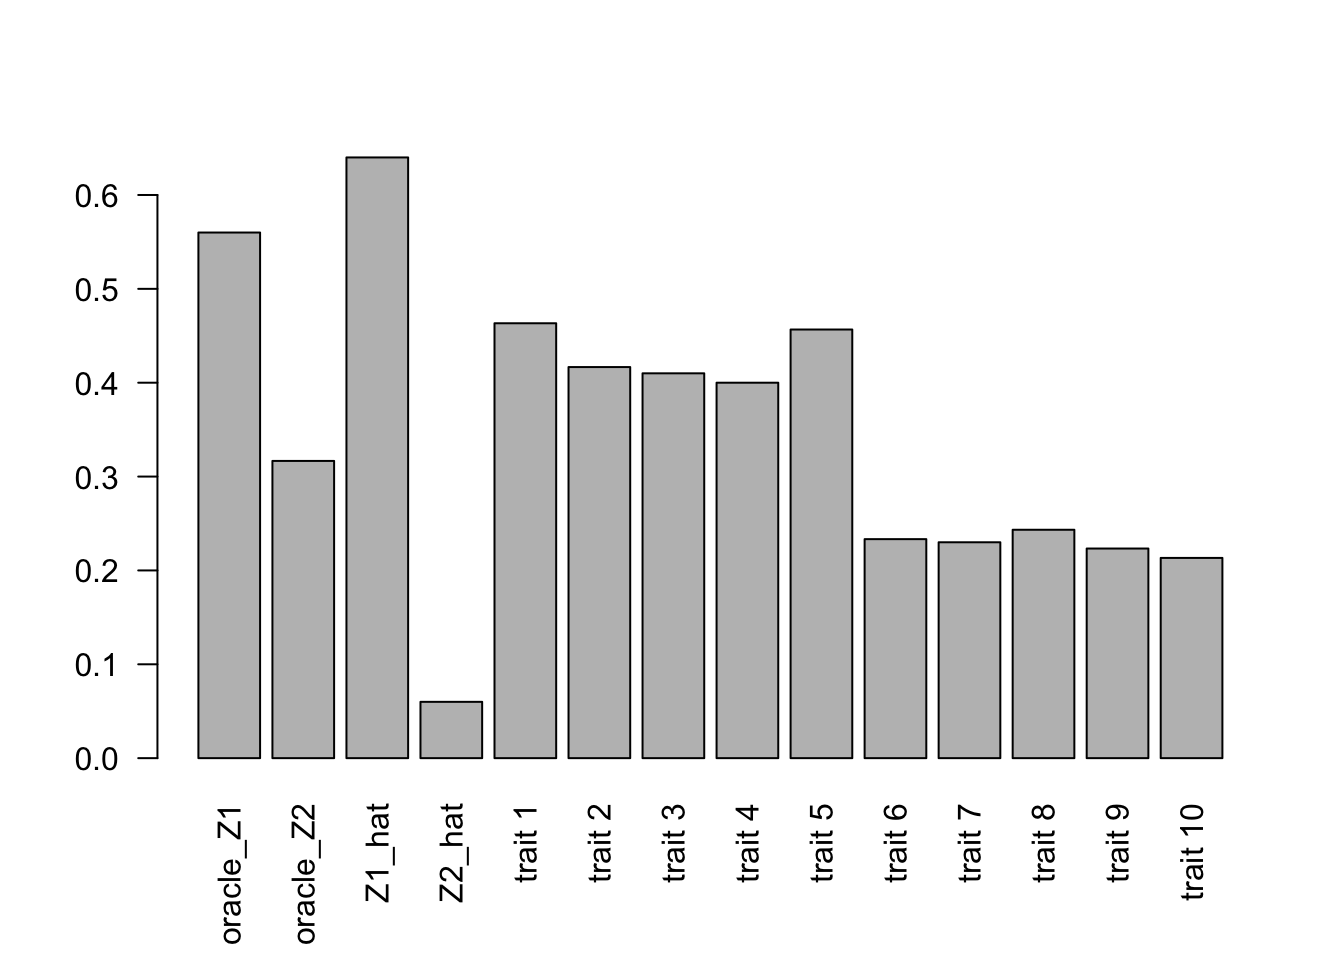
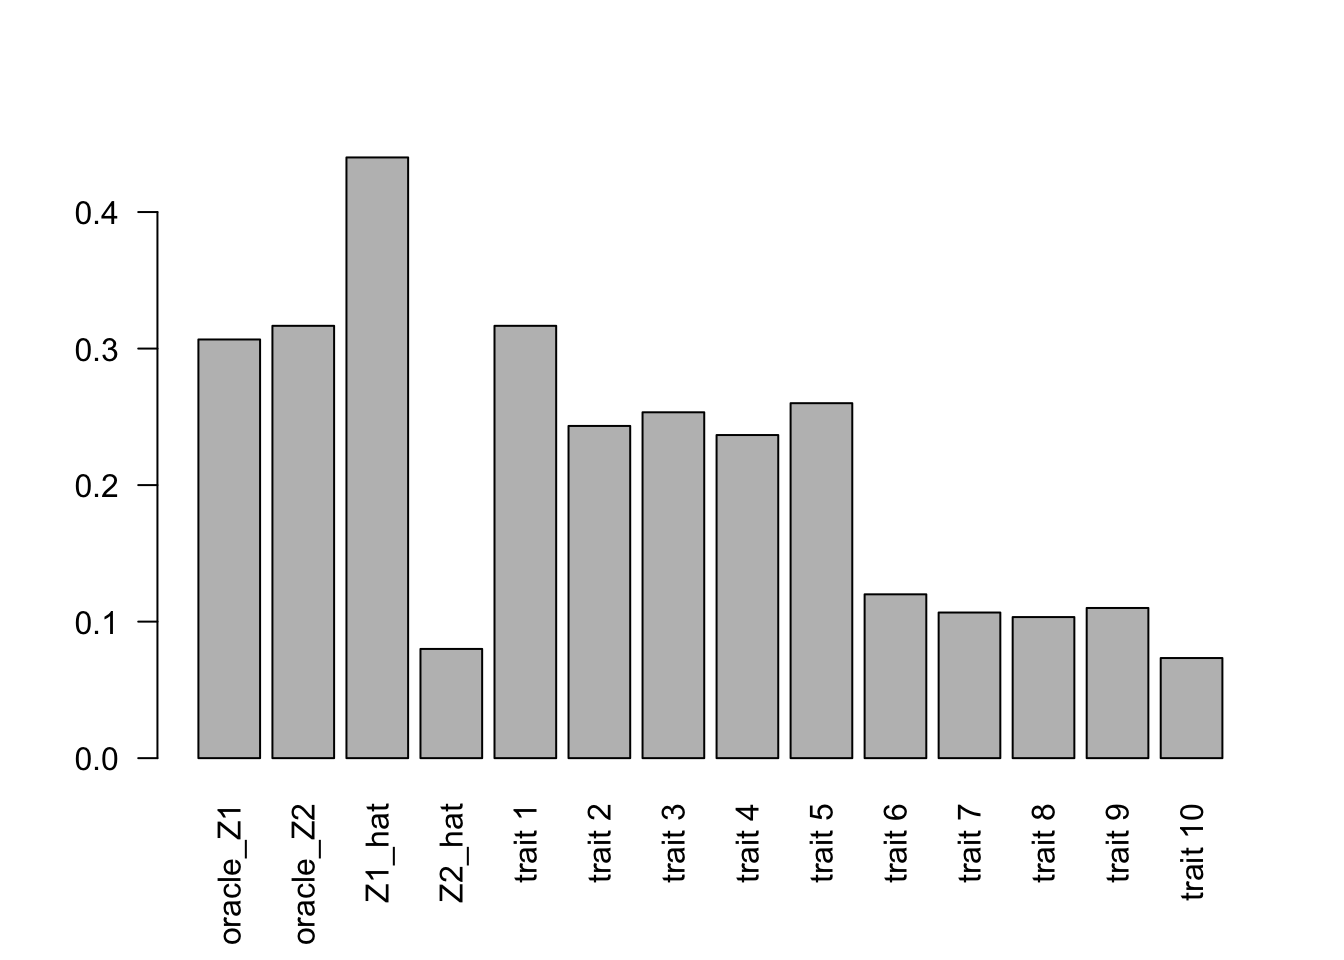
Build site.

diff --git a/docs/factor_eqtl.html b/docs/factor_eqtl.html
@@ -382,7 +382,7 @@ class="glyphicon glyphicon-ok text-success" aria-hidden="true"></span>
 <div class="tab-content">
 <div id="summary" class="tab-pane fade in active">
 <p>
-<strong>Last updated:</strong> 2025-02-02
+<strong>Last updated:</strong> 2025-02-04
 </p>
 <p>
 <strong>Checks:</strong> <span
@@ -513,15 +513,15 @@ project makes it easier to run your code on other machines.</p>
 <div class="panel panel-default">
 <div class="panel-heading">
 <p class="panel-title">
-<a data-toggle="collapse" data-parent="#workflowr-checks" href="#strongRepositoryversionstrongahrefhttpsgithubcomLifanLiangeQTLmethodstreec2a480e01002956f815daf729cfcd6ad37b993f7targetblankc2a480ea">
+<a data-toggle="collapse" data-parent="#workflowr-checks" href="#strongRepositoryversionstrongahrefhttpsgithubcomLifanLiangeQTLmethodstreeefc7cd75c9fce0bb6a77600b3ca3b3be39a9bbc3targetblankefc7cd7a">
 <span class="glyphicon glyphicon-ok text-success"
 aria-hidden="true"></span> <strong>Repository version:</strong>
-<a href="https://github.com/LifanLiang/eQTL_methods/tree/c2a480e01002956f815daf729cfcd6ad37b993f7" target="_blank">c2a480e</a>
+<a href="https://github.com/LifanLiang/eQTL_methods/tree/efc7cd75c9fce0bb6a77600b3ca3b3be39a9bbc3" target="_blank">efc7cd7</a>
 </a>
 </p>
 </div>
 <div
[2 lines of base64/hex data omitted]
 class="panel-collapse collapse">
 <div class="panel-body">
 <p>
@@ -531,7 +531,7 @@ reproducibility.
 </p>
 <p>
 The results in this page were generated with repository version
-<a href="https://github.com/LifanLiang/eQTL_methods/tree/c2a480e01002956f815daf729cfcd6ad37b993f7" target="_blank">c2a480e</a>.
+<a href="https://github.com/LifanLiang/eQTL_methods/tree/efc7cd75c9fce0bb6a77600b3ca3b3be39a9bbc3" target="_blank">efc7cd7</a>.
 See the <em>Past versions</em> tab to see a history of the changes made
 to the R Markdown and HTML files.
 </p>
@@ -606,6 +606,40 @@ Message
 </tr>
 </thead>
 <tbody>
+<tr>
+<td>
+Rmd
+</td>
+<td>
+<a href="https://github.com/LifanLiang/eQTL_methods/blob/efc7cd75c9fce0bb6a77600b3ca3b3be39a9bbc3/analysis/factor_eqtl.Rmd" target="_blank">efc7cd7</a>
+</td>
+<td>
+Lifan Liang
+</td>
+<td>
+2025-02-04
+</td>
+<td>
+wflow_publish("analysis")
+</td>
+</tr>
+<tr>
+<td>
+html
+</td>
+<td>
+<a href="https://rawcdn.githack.com/LifanLiang/eQTL_methods/a9aaac7de843d66fdf7555bbf5eb74c2f0803465/docs/factor_eqtl.html" target="_blank">a9aaac7</a>
+</td>
+<td>
+Lifan Liang
+</td>
+<td>
+2025-02-02
+</td>
+<td>
+Build site.
+</td>
+</tr>
 <tr>
 <td>
 Rmd
@@ -1534,7 +1568,11 @@ Lifan Liang
 </div>
 <div id="simulation-with-two-latent-factors" class="section level3">
 <h3>Simulation with two latent factors</h3>
-<pre class="r"><code>sim_10trait2 &lt;- function(alpha1=0.15, alpha2=0.1 ,beta=0.4, eps0=0.7, eps1=0.4, N=100){
+<p>We added another factor that affects 5 traits (<span
+class="math inline">\(Y_1,..., Y_5\)</span>). The parameters are set so
+that <span class="math inline">\(PVE(Z\sim X)=2\%\)</span> and <span
+class="math inline">\(PVE(Y\sim X) \approx 1.8\%\)</span></p>
+<pre class="r"><code>sim_10trait2 &lt;- function(alpha1=0.1, alpha2=0.1 ,beta=0.3, eps0=0.7, eps1=0.4, N=100){
   x = rnorm(N,sd=1)
   Z1 = alpha1*x + rnorm(N,sd=eps0)
   Z2 = alpha2*x + rnorm(N,sd=eps0)
@@ -1552,15 +1590,126 @@ y1 &lt;- scale(dat$y)
 pcs &lt;- prcomp(y1)
 plot(pcs$sdev^2/sum(pcs$sdev^2),ylab=&quot;PVE&quot;)</code></pre>
 <p><img src="figure/factor_eqtl.Rmd/unnamed-chunk-10-1.png" width="672" style="display: block; margin: auto;" /></p>
+<p>
+<button type="button" class="btn btn-default btn-xs btn-workflowr btn-workflowr-fig" data-toggle="collapse" data-target="#fig-unnamed-chunk-10-1">
+Past versions of unnamed-chunk-10-1.png
+</button>
+</p>
+<div id="fig-unnamed-chunk-10-1" class="collapse">
+<div class="table-responsive">
+<table class="table table-condensed table-hover">
+<thead>
+<tr>
+<th>
+Version
+</th>
+<th>
+Author
+</th>
+<th>
+Date
+</th>
+</tr>
+</thead>
+<tbody>
+<tr>
+<td>
+<a href="https://github.com/LifanLiang/eQTL_methods/blob/a9aaac7de843d66fdf7555bbf5eb74c2f0803465/docs/figure/factor_eqtl.Rmd/unnamed-chunk-10-1.png" target="_blank">a9aaac7</a>
+</td>
+<td>
+Lifan Liang
+</td>
+<td>
+2025-02-02
+</td>
+</tr>
+</tbody>
+</table>
+</div>
+</div>
 <p>PCA results have captured one factor. My conjecture is that the two
 factors are correlated by the genetic effect. So PCA tends to attribute
 all genetic effects to the first PC.</p>
 <pre class="r"><code>z_hat &lt;- pcs$x[,1]
 plot(z_hat, dat$Z[,1], ylab=&quot;Oracle Z1&quot;, xlab=&quot; Estimated Z&quot;)</code></pre>
 <p><img src="figure/factor_eqtl.Rmd/unnamed-chunk-11-1.png" width="672" style="display: block; margin: auto;" /></p>
+<p>
+<button type="button" class="btn btn-default btn-xs btn-workflowr btn-workflowr-fig" data-toggle="collapse" data-target="#fig-unnamed-chunk-11-1">
+Past versions of unnamed-chunk-11-1.png
+</button>
+</p>
+<div id="fig-unnamed-chunk-11-1" class="collapse">
+<div class="table-responsive">
+<table class="table table-condensed table-hover">
+<thead>
+<tr>
+<th>
+Version
+</th>
+<th>
+Author
+</th>
+<th>
+Date
+</th>
+</tr>
+</thead>
+<tbody>
+<tr>
+<td>
+<a href="https://github.com/LifanLiang/eQTL_methods/blob/a9aaac7de843d66fdf7555bbf5eb74c2f0803465/docs/figure/factor_eqtl.Rmd/unnamed-chunk-11-1.png" target="_blank">a9aaac7</a>
+</td>
+<td>
+Lifan Liang
+</td>
+<td>
+2025-02-02
+</td>
+</tr>
+</tbody>
+</table>
+</div>
+</div>
 <pre class="r"><code>z_hat &lt;- pcs$x[,1]
 plot(z_hat, dat$Z[,2], ylab=&quot;Oracle Z2&quot;, xlab=&quot; Estimated Z&quot;)</code></pre>
 <p><img src="figure/factor_eqtl.Rmd/unnamed-chunk-12-1.png" width="672" style="display: block; margin: auto;" /></p>
+<p>
+<button type="button" class="btn btn-default btn-xs btn-workflowr btn-workflowr-fig" data-toggle="collapse" data-target="#fig-unnamed-chunk-12-1">
+Past versions of unnamed-chunk-12-1.png
+</button>
+</p>
+<div id="fig-unnamed-chunk-12-1" class="collapse">
+<div class="table-responsive">
+<table class="table table-condensed table-hover">
+<thead>
+<tr>
+<th>
+Version
+</th>
+<th>
+Author
+</th>
+<th>
+Date
+</th>
+</tr>
+</thead>
+<tbody>
+<tr>
+<td>
+<a href="https://github.com/LifanLiang/eQTL_methods/blob/a9aaac7de843d66fdf7555bbf5eb74c2f0803465/docs/figure/factor_eqtl.Rmd/unnamed-chunk-12-1.png" target="_blank">a9aaac7</a>
+</td>
+<td>
+Lifan Liang
+</td>
+<td>
+2025-02-02
+</td>
+</tr>
+</tbody>
+</table>
+</div>
+</div>
 <pre class="r"><code>Nrep = 300
 
 factor.res1 &lt;- matrix(nrow=Nrep,ncol=3)
@@ -1588,14 +1737,54 @@ for(i in 1:Nrep) {
     marg$tstat[i,j] &lt;- temp[3]
     marg$pval[i,j] &lt;- temp[4]
   }
-}
-dat1 &lt;- abs(cbind(oracle.res[,2],cbind(factor.res[,2],marg$tstat))) # Combine T statistics</code></pre>
+}</code></pre>
+</div>
+<div id="frequency-of-rejecting-null-nominal-pv-0.05"
+class="section level3">
+<h3>Frequency of rejecting null (nominal PV &lt; 0.05)</h3>
 <pre class="r"><code>dat2 &lt;- do.call(cbind, list(oracle_Z1=oracle.z1[,3],oracle_Z2=oracle.z2[,3],
                             Z1_hat=factor.res1[,3],Z2_hat=factor.res2[,3]))
 dat2 &lt;- cbind(dat2, marg$pval)
 colnames(dat2)[5:14] &lt;- paste0(&quot;trait &quot;,1:10)
 barplot(colMeans(dat2&lt;0.05),las=2)</code></pre>
 <p><img src="figure/factor_eqtl.Rmd/unnamed-chunk-14-1.png" width="672" style="display: block; margin: auto;" /></p>
+<p>
+<button type="button" class="btn btn-default btn-xs btn-workflowr btn-workflowr-fig" data-toggle="collapse" data-target="#fig-unnamed-chunk-14-1">
+Past versions of unnamed-chunk-14-1.png
+</button>
+</p>
+<div id="fig-unnamed-chunk-14-1" class="collapse">
+<div class="table-responsive">
+<table class="table table-condensed table-hover">
+<thead>
+<tr>
+<th>
+Version
+</th>
+<th>
+Author
+</th>
+<th>
+Date
+</th>
+</tr>
+</thead>
+<tbody>
+<tr>
+<td>
+<a href="https://github.com/LifanLiang/eQTL_methods/blob/a9aaac7de843d66fdf7555bbf5eb74c2f0803465/docs/figure/factor_eqtl.Rmd/unnamed-chunk-14-1.png" target="_blank">a9aaac7</a>
+</td>
+<td>
+Lifan Liang
+</td>
+<td>
+2025-02-02
+</td>
+</tr>
+</tbody>
+</table>
+</div>
+</div>
 <br>
 <p>
 <button type="button" class="btn btn-default btn-workflowr btn-workflowr-sessioninfo" data-toggle="collapse" data-target="#workflowr-sessioninfo" style="display: block;">
